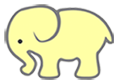
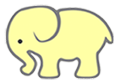
loading message

diff --git a/ancestry/templates/ancestry/home.html b/ancestry/templates/ancestry/home.html
@@ -1,6 +1,10 @@
 {% extends 'base.html' %}
 {% load staticfiles %}
 
+
+{# username: tuf000205792 #}
+{# password: 1234pass #}
+
 {% block content %}
 {% verbatim %}
 
@@ -36,12 +40,19 @@
                     We will automatically scan your family
                     history and create a list of name suggestions
                     for your new little one.</p>
-                    <p>To get started, simply log in to
-                    Family Search Database, where you will be
-                    momentarily re-routed from our site.</p>
                     <a ng-click="loginUser()" class="btn btn-lg btn-info">Get Started</a> 
                 </div>
             </div>
+
+            <div id="top-login" ng-show="loadingAncestors">
+                <div class="box-login">
+                    <p>
+                        Scanning your ancestors. This might take a minute or two...
+                    </p>
+                </div>
+            </div>
+
+
             <div id="content" ng-show="loggedIn">
                 <div class="container">
                     <div class="template-grid">

diff --git a/ancestry/static/app/js/controllers.js b/ancestry/static/app/js/controllers.js
@@ -8,21 +8,24 @@ babyApp.controller('MainCtrl', ['$scope','MainService', '$location', '$http', '$
   $scope.contactName = 'User';
   $scope.loggedIn = false;
   $scope.ancestorsList = [];
+  $scope.loadingAncestors = false;
 
   $scope.loginUser = function() {
     fs.getAccessToken().then(function(accessToken) {  
       fs.getCurrentUser().then(function(response) {
         $scope.loggedIn = true;
-        
+        $scope.loadingAncestors = false;
+
         currentUser = response.getUser();
         $scope.contactName = currentUser.contactName;
-        
+        $scope.loadingAncestors = true;
         fs.getAncestry(currentUser.personId, {
           generations:8,
           personDetails: true,
           marriageDetails: true,
           descendants: true,
         }).then(function(response){
+          $scope.loadingAncestors = false;
           $scope.ancestorsList = MainService.buildAncestors(response.getPersons());
         });
       });

diff --git a/ancestry/templates/base.html b/ancestry/templates/base.html
@@ -3,6 +3,8 @@
 <html>
 <head>
     <title>Family History Baby Names Recommender</title>
+
+    <link id="favicon" rel="shortcut icon" type="image/png" href="/static/app/img/elephant.png" />
     
     <!-- Main Styles -->
     <link rel="stylesheet" type="text/css" href="{% static 'app/css/bootstrap.min.css' %}">
